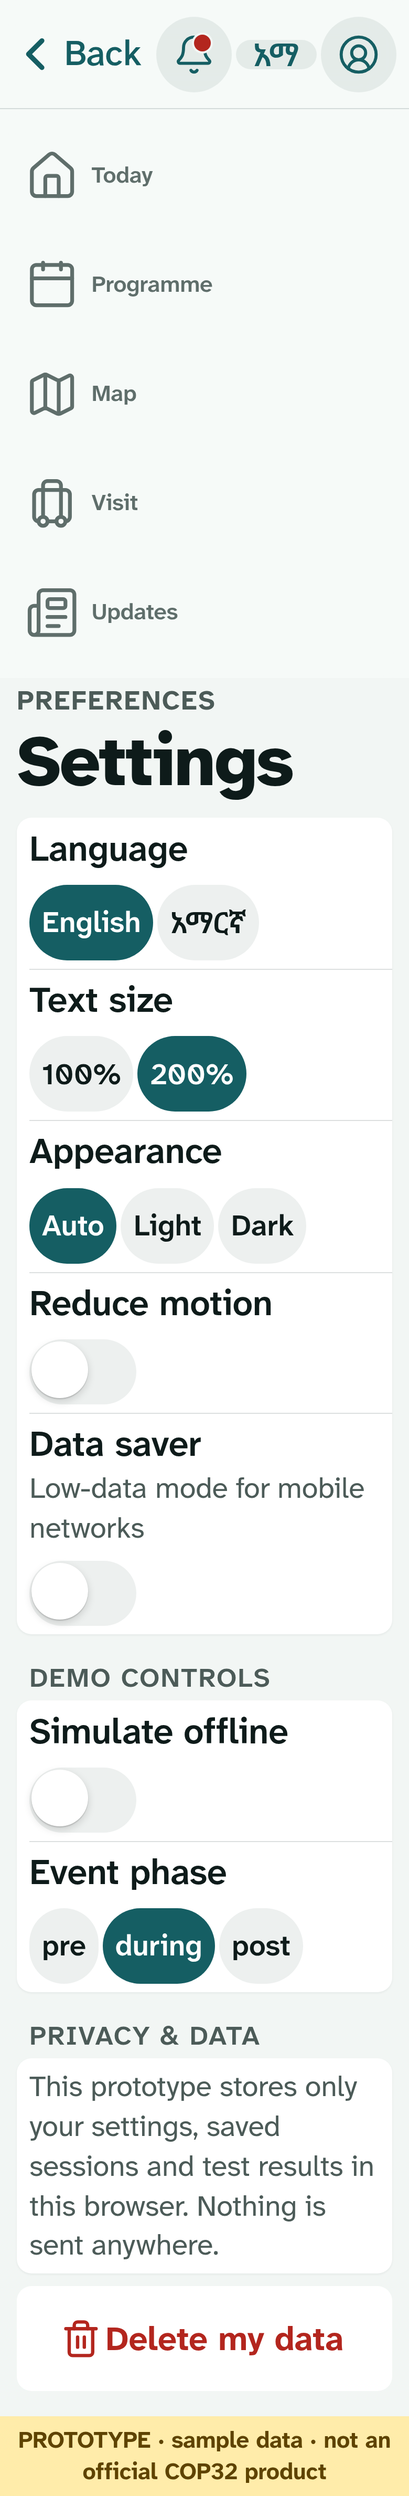
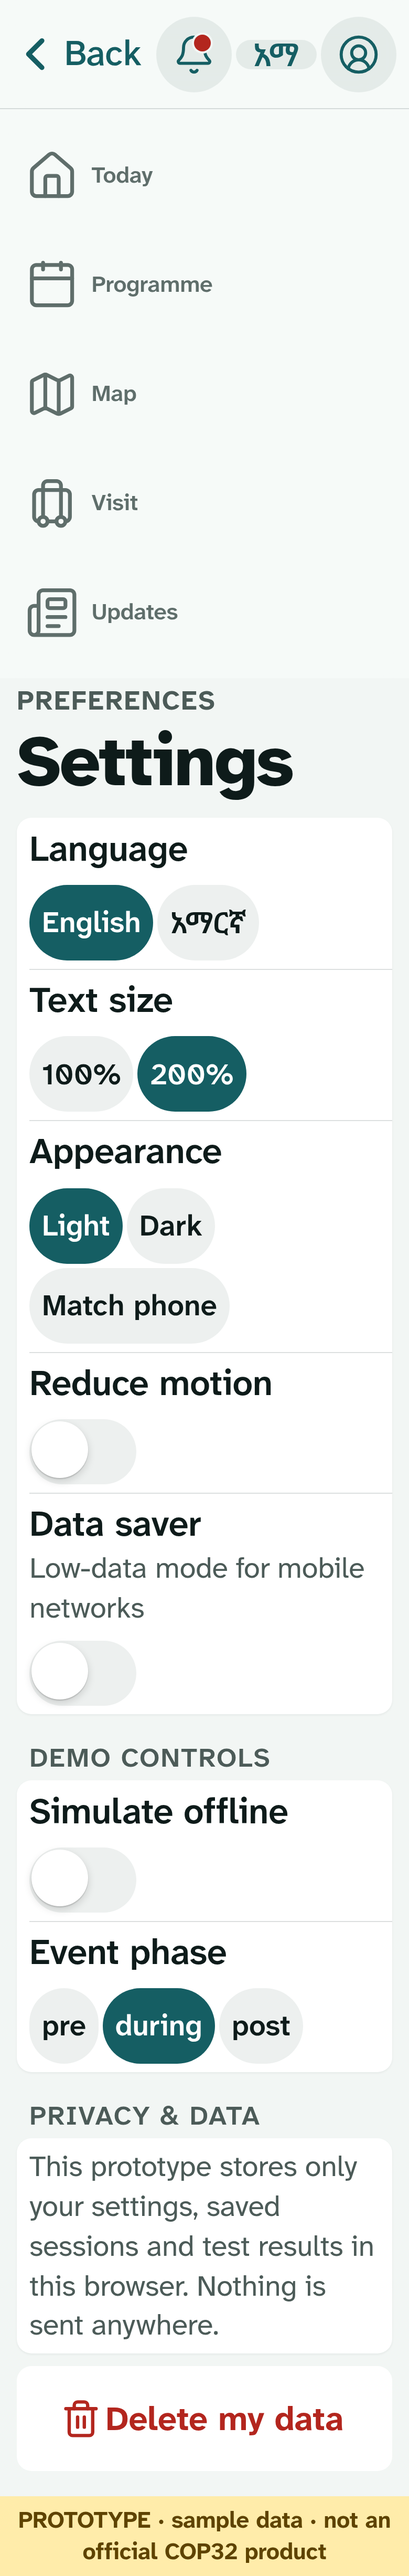
Prototype: default to light mode, add Dark mode switch, fix theme click bug
The root element's data-theme attribute matched the global click handler's
[data-theme] selector, so every click reset the theme and re-rendered,
which also blocked the settings switches. Theme buttons now use
data-set-theme. Light is the default (new 'appearance' key, so old 'auto'
prefs no longer follow the phone's dark mode); Profile & Settings gets a
Dark mode switch; Settings offers Light / Dark / Match phone.

Claude-Session: https://claude.ai/code/session_01HBeDDg6xG2i1W1YkZUsBUK

diff --git a/prototype/app.js b/prototype/app.js
@@ -5,7 +5,7 @@ const D = window.DATA, ICONS = window.ICONS || {}, $ = (s, r = document) => r.qu
 const store = { get(k, d) { try { const v = localStorage.getItem('p_' + k); return v === null ? d : JSON.parse(v); } catch { return d; } },
   set(k, v) { try { localStorage.setItem('p_' + k, JSON.stringify(v)); } catch {} },
   clear() { try { Object.keys(localStorage).filter(k => k.startsWith('p_')).forEach(k => localStorage.removeItem(k)); } catch {} } };
-const S = { lang: store.get('lang', 'en'), theme: store.get('theme', 'auto'), scale: store.get('scale', 1), reduce: store.get('reduce', false), save: store.get('dataSaver', false),
+const S = { lang: store.get('lang', 'en'), theme: store.get('appearance', 'light'), scale: store.get('scale', 1), reduce: store.get('reduce', false), save: store.get('dataSaver', false),
   offline: false, phase: store.get('phase', 'during'), saved: new Set(store.get('saved', [])), task: store.get('task', null), visited: [], firstTab: null, results: store.get('results', []), signed: store.get('signed', false) };
 // ---- i18n: AM strings are MACHINE-DRAFTED & UNVERIFIED; missing ones fall back to visible English (IA rule 5)
 const AM = { Home:'መነሻ', Programme:'ፕሮግራም', Map:'ካርታ', Visit:'ጉብኝት', Updates:'ዜና', Search:'ፈልግ', Settings:'ቅንብሮች', Language:'ቋንቋ', Help:'እገዛ', Today:'ዛሬ',
@@ -36,7 +36,8 @@ function avatar(id, big) { const n = parseInt(String(id).replace(/\D/g, ''), 10)
 // ---- shell
 const app = $('#app');
 function setPrefs() { const r = document.documentElement; r.style.setProperty('--scale', S.scale); r.dataset.reduce = S.reduce; r.classList.toggle('big', S.scale >= 1.5); document.body.dataset.uiLang = S.lang; r.lang = S.lang;
-  if (S.theme === 'auto') r.removeAttribute('data-theme'); else r.dataset.theme = S.theme; }
+  if (S.theme === 'auto') r.removeAttribute('data-theme'); else r.dataset.theme = S.theme;
+  const dark = S.theme === 'dark' || (S.theme === 'auto' && matchMedia('(prefers-color-scheme: dark)').matches), m = document.querySelector('meta[name=theme-color]'); if (m) m.content = dark ? '#000000' : '#F2F6F4'; }
 const route = () => (location.hash.replace(/^#\/?/, '') || 'home');
 const TABS = [['home', 'Home', 'house'], ['programme', 'Programme', 'calendar'], ['map', 'Map', 'map'], ['visit', 'Visit', 'luggage'], ['updates', 'Updates', 'newspaper']];
 const largeTitle = (title, eyebrow = '', extra = '') => `<div class="lt"><div>${eyebrow ? `<div class="eyebrow">${eyebrow}</div>` : ''}<h1 class="title">${title}</h1></div>${extra}</div>`;
@@ -132,7 +133,7 @@ V.menu = p => { const k = p[1];
     ${S.signed ? `<div class="prof"><span class="pav">SA</span><div class="rt"><b>Selam Anbessa</b><small>selam@example.org · sample account</small></div></div>`
       : `<div class="prof"><span class="pav">${svg('user-round')}</span><div class="rt"><b>Guest</b><small>Using the app without an account</small></div></div><button class="btn wide" id="signin" style="margin-top:var(--s-3)">${svg('log-in')}Sign in to sync your agenda</button><p class="gnote">Optional. Everything works without an account; your saved sessions stay on this phone (D21).</p>`}
     <div class="glabel">Account</div><div class="group">${row({ href: '#/programme/agenda', icon: 'bookmark', title: t('My agenda'), val: `${S.saved.size} saved` })}${row({ href: '#/updates/alerts', icon: 'bell-ring', tone: 'c2', title: 'Notifications', val: 'On' })}</div>
-    <div class="glabel">Preferences</div><div class="group">${row({ href: '#/menu/settings', icon: 'languages', title: t('Language'), val: S.lang === 'am' ? '<span lang="am">አማርኛ</span>' : 'English' })}${row({ href: '#/menu/settings', icon: 'sun-moon', tone: 'c4', title: 'Appearance', val: { auto: 'Automatic', light: 'Light', dark: 'Dark' }[S.theme] })}${row({ href: '#/menu/settings', icon: 'type', tone: 'c5', title: 'Text size', val: S.scale > 1 ? '200%' : 'Default' })}${row({ href: '#/menu/settings', icon: 'clock', tone: 'c2', title: 'Time zone', val: 'EAT' })}</div>
+    <div class="glabel">Preferences</div><div class="group">${row({ href: '#/menu/settings', icon: 'languages', title: t('Language'), val: S.lang === 'am' ? '<span lang="am">አማርኛ</span>' : 'English' })}<div class="row"><span class="ri c4">${svg('sun-moon')}</span><label class="rt" for="s-dark"><b>Dark mode</b><small>${S.theme === 'auto' ? 'Matching your phone' : S.theme === 'dark' ? 'On' : 'Off (light)'}</small></label><input type="checkbox" role="switch" class="switch" id="s-dark" ${S.theme === 'dark' ? 'checked' : ''}></div>${row({ href: '#/menu/settings', icon: 'type', tone: 'c5', title: 'Text size', val: S.scale > 1 ? '200%' : 'Default' })}${row({ href: '#/menu/settings', icon: 'clock', tone: 'c2', title: 'Time zone', val: 'EAT' })}</div>
     <div class="glabel">Learn &amp; library</div><div class="group">${row({ href: '#/menu/learn', icon: 'book-open', title: 'Learn', sub: 'COP explained, climate basics, glossary' })}${row({ href: '#/menu/library', icon: 'library', tone: 'c5', title: 'Library', sub: 'Documents and reports' })}${row({ href: '#/menu/archive', icon: 'archive', tone: 'c4', title: 'Archive', sub: 'Past editions' })}</div>
     <div class="glabel">Privacy</div><div class="group">${row({ href: '#/menu/settings', icon: 'shield', title: 'Privacy & data' })}${row({ href: '#/menu/settings', icon: 'trash-2', tone: 'c3', title: '<span style="color:var(--c-danger)">Delete my data</span>' })}</div>
     <div class="glabel">Help</div><div class="group">${row({ href: '#/menu/help', icon: 'circle-help', title: 'Help & FAQ' })}${row({ href: '#/menu/about', icon: 'info', tone: 'c5', title: 'About this prototype', val: 'v0.2' })}</div>
@@ -151,7 +152,7 @@ function settings() { const sw = (id, label, on, sub = '') => `<div class="row n
   return `${largeTitle(t('Settings'), 'Preferences')}
   <div class="group">${opt(t('Language'), `<button data-lang="en" aria-pressed="${S.lang === 'en'}">English</button><button data-lang="am" aria-pressed="${S.lang === 'am'}" lang="am">አማርኛ</button>`)}
   ${opt('Text size', `<button data-scale="1" aria-pressed="${S.scale === 1}">100%</button><button data-scale="2" aria-pressed="${S.scale === 2}">200%</button>`)}
-  ${opt('Appearance', ['auto', 'light', 'dark'].map(x => `<button data-theme="${x}" aria-pressed="${S.theme === x}">${{ auto: 'Auto', light: 'Light', dark: 'Dark' }[x]}</button>`).join(''))}
+  ${opt('Appearance', ['light', 'dark', 'auto'].map(x => `<button data-set-theme="${x}" aria-pressed="${S.theme === x}">${{ auto: 'Match phone', light: 'Light', dark: 'Dark' }[x]}</button>`).join(''))}
   ${sw('s-reduce', 'Reduce motion', S.reduce)}${sw('s-save', 'Data saver', S.save, 'Low-data mode for mobile networks')}</div>
   <div class="glabel">Demo controls</div><div class="group">${sw('s-off', 'Simulate offline', S.offline)}${opt('Event phase', ['pre', 'during', 'post'].map(x => `<button data-phase="${x}" aria-pressed="${S.phase === x}">${x}</button>`).join(''))}</div>
   <div class="glabel">Privacy &amp; data</div><div class="group"><div class="row notile"><span class="rt"><small>This prototype stores only your settings, saved sessions and test results in this browser. Nothing is sent anywhere.</small></span></div></div>
@@ -211,12 +212,12 @@ function onScroll() { app.classList.toggle('scrolled', window.scrollY > 24); }
 window.addEventListener('scroll', onScroll, { passive: true });
 // ---- events
 document.addEventListener('click', e => {
-  const el = e.target.closest('[data-save],[data-lang],[data-scale],[data-theme],[data-phase],[data-linkout],[data-task],[data-tt],[data-toast],[data-back],#lg,#del,#found,#csv,#clr,#signin,#signout'); if (!el) return;
+  const el = e.target.closest('[data-save],[data-lang],[data-scale],[data-set-theme],[data-phase],[data-linkout],[data-task],[data-tt],[data-toast],[data-back],#lg,#del,#found,#csv,#clr,#signin,#signout'); if (!el) return;
   if (el.dataset.back && history.length > 1 && document.referrer !== undefined) { e.preventDefault(); history.back(); return; }
   if (el.dataset.save) { e.preventDefault(); const id = el.dataset.save, on = !S.saved.has(id); on ? S.saved.add(id) : S.saved.delete(id); store.set('saved', [...S.saved]); const y = window.scrollY; render(); window.scrollTo(0, y); onScroll(); toast(on ? 'Added to My agenda' : 'Removed from My agenda'); }
   else if (el.id === 'lg' || el.dataset.lang) { S.lang = el.dataset.lang || (S.lang === 'en' ? 'am' : 'en'); store.set('lang', S.lang); S.visited.push('header/language'); render(); }
   else if (el.dataset.scale) { S.scale = +el.dataset.scale; store.set('scale', S.scale); render(); }
-  else if (el.dataset.theme) { S.theme = el.dataset.theme; store.set('theme', S.theme); render(); }
+  else if (el.dataset.setTheme) { S.theme = el.dataset.setTheme; store.set('appearance', S.theme); render(); }
   else if (el.dataset.phase) { S.phase = el.dataset.phase; store.set('phase', S.phase); render(); }
   else if (el.dataset.toast) { toast(el.dataset.toast); }
   else if (el.dataset.linkout) { e.preventDefault(); dialogBox(`<h2 id="dt">You’re leaving the app</h2><p class="muted">Opening ${esc(el.dataset.linkout)}. We don’t share your data. (Sample interstitial — no real link.)</p><div class="dlg-actions"><button class="btn plain" value="x">Cancel</button><button class="btn" value="c">Continue</button></div>`, () => toast('Sample only: no real link')); }
@@ -224,12 +225,12 @@ document.addEventListener('click', e => {
   else if (el.dataset.tt) { const task = D.tasks.find(x => x[0] === S.task); if (el.dataset.top) { S.firstTab = el.dataset.tt; el.style.fontWeight = 700; return; }
     const ok = (TREE_MAP[el.dataset.tt] || [el.dataset.tt.toLowerCase()]).some(r => task[2].some(c => r === c || c.startsWith(r + '/') || r.startsWith(c + '/') || (r === 'menu/settings' && c === 'header/language'))); finish('tree', `${el.dataset.parent} > ${el.dataset.tt}`, S.firstTab || el.dataset.parent, ok); }
   else if (el.id === 'found') { const task = D.tasks.find(x => x[0] === S.task), last = route().split('?')[0]; finish('app', S.visited.filter(v => v !== 'test').join(' > '), S.firstTab || '', task[2].some(c => last === c || last.startsWith(c) || (c === 'header/language' && S.visited.includes('header/language')) || (c.startsWith('visit/') && last === c) || (c === 'programme' && last.startsWith('programme')) || (c === 'home' && last === 'home') || (c === 'updates' && last.startsWith('updates')) || (c === 'map' && last.startsWith('map')) || (c === 'menu/settings' && last.startsWith('menu/settings')))); }
-  else if (el.id === 'del') { dialogBox(`<h2 id="dt">Delete your data?</h2><p class="muted">This removes your settings, saved sessions and test results from this browser.</p><div class="dlg-actions"><button class="btn plain" value="x">Cancel</button><button class="btn" style="background:var(--c-danger);color:var(--c-onDanger)" value="c">Delete</button></div>`, () => { store.clear(); S.saved = new Set(); S.results = []; S.lang = 'en'; S.theme = 'auto'; S.scale = 1; S.task = null; S.signed = false; render(); toast('Your data was deleted'); }); }
+  else if (el.id === 'del') { dialogBox(`<h2 id="dt">Delete your data?</h2><p class="muted">This removes your settings, saved sessions and test results from this browser.</p><div class="dlg-actions"><button class="btn plain" value="x">Cancel</button><button class="btn" style="background:var(--c-danger);color:var(--c-onDanger)" value="c">Delete</button></div>`, () => { store.clear(); S.saved = new Set(); S.results = []; S.lang = 'en'; S.theme = 'light'; S.scale = 1; S.task = null; S.signed = false; render(); toast('Your data was deleted'); }); }
   else if (el.id === 'signin') { S.signed = true; store.set('signed', true); render(); toast('Signed in (sample account)'); }
   else if (el.id === 'signout') { S.signed = false; store.set('signed', false); render(); toast('Signed out'); }
   else if (el.id === 'csv') { const csv = 'task,mode,first_click,path,success\n' + S.results.map(r => [r.task, r.mode, r.first, r.path, r.ok ? 'Y' : 'N'].map(x => `"${String(x).replace(/"/g, '""')}"`).join(',')).join('\n'); const a = document.createElement('a'); a.href = URL.createObjectURL(new Blob([csv], { type: 'text/csv' })); a.download = 'tree-test-dry-run.csv'; a.click(); }
   else if (el.id === 'clr') { S.results = []; store.set('results', []); render(); } });
-document.addEventListener('change', e => { const i = e.target.id; if (i === 's-reduce') { S.reduce = e.target.checked; store.set('reduce', S.reduce); } else if (i === 's-save') { S.save = e.target.checked; store.set('dataSaver', S.save); } else if (i === 's-off') { S.offline = e.target.checked; toast(S.offline ? 'Offline mode (simulated)' : 'Back online'); } else return; render(); });
+document.addEventListener('change', e => { const i = e.target.id; if (i === 's-reduce') { S.reduce = e.target.checked; store.set('reduce', S.reduce); } else if (i === 's-save') { S.save = e.target.checked; store.set('dataSaver', S.save); } else if (i === 's-dark') { S.theme = e.target.checked ? 'dark' : 'light'; store.set('appearance', S.theme); } else if (i === 's-off') { S.offline = e.target.checked; toast(S.offline ? 'Offline mode (simulated)' : 'Back online'); } else return; render(); });
 document.addEventListener('submit', e => { if (e.target.id === 'sf') { e.preventDefault(); location.hash = '#/search?q=' + encodeURIComponent($('#q').value); } });
 window.addEventListener('hashchange', render); render();
 })();

diff --git a/prototype/index.html b/prototype/index.html
@@ -2,7 +2,7 @@
 <html lang="en"><head><meta charset="utf-8"><meta name="viewport" content="width=device-width,initial-scale=1,viewport-fit=cover">
 <title>COP32 companion — PROTOTYPE (sample data)</title>
 <meta name="description" content="Clickable prototype with sample data. Not an official COP32 product.">
-<meta name="theme-color" content="#F2F6F4" media="(prefers-color-scheme: light)"><meta name="theme-color" content="#000000" media="(prefers-color-scheme: dark)">
+<meta name="theme-color" content="#F2F6F4">
 <link rel="preload" href="assets/AtkinsonHyperlegibleNext-latin.woff2" as="font" type="font/woff2" crossorigin>
 <link rel="preload" href="assets/NotoSansEthiopic-subset.woff2" as="font" type="font/woff2" crossorigin>
 <link rel="icon" href="data:,"><link rel="stylesheet" href="tokens.css"><link rel="stylesheet" href="styles.css"></head>

diff --git a/prototype/README.md b/prototype/README.md
@@ -3,7 +3,7 @@
 > **PROTOTYPE — sample data, not an official COP32 product.** Independent, unofficial concept (D1, D3). All content is synthetic; Amharic text is machine-drafted and **not reviewed by a native speaker**. This is not the production app and does not depend on the mobile-framework decision (S1).
 
 ## Visual design (Track D v2, D53)
-"Highland Mist": misty teal tint, lime for the one primary action, grouped inset lists, large collapsing titles, translucent bars, true dark mode (Apple HIG principles). Fonts: Atkinson Hyperlegible Next (Latin, 34 KB) + Noto Sans Ethiopic (bundled). Icons: Lucide subset (`icons.js`, ISC). Avatars: faceless illustrated SVG. The ☰ menu is now the **profile button** next to the language switch; it opens Profile & Settings (`#/menu`) with Learn, Library, Archive, Help and About. See `docs/design/design-system.md` and `docs/design/redesign-plan.md`.
+"Highland Mist": misty teal tint, lime for the one primary action, grouped inset lists, large collapsing titles, translucent bars, true dark mode (Apple HIG principles). Light mode is the default; turn on Dark mode from the profile button → Preferences, or choose Light / Dark / Match phone in Settings. Fonts: Atkinson Hyperlegible Next (Latin, 34 KB) + Noto Sans Ethiopic (bundled). Icons: Lucide subset (`icons.js`, ISC). Avatars: faceless illustrated SVG. The ☰ menu is now the **profile button** next to the language switch; it opens Profile & Settings (`#/menu`) with Learn, Library, Archive, Help and About. See `docs/design/design-system.md` and `docs/design/redesign-plan.md`.
 
 ## What it shows
 - The approved IA (D16 v2): 5 tabs — Today (Home), Programme, Map, Visit, Updates — plus header actions: alerts, language switch, and the profile button (Profile & Settings with Learn, Library, Archive, Help, About). Search sits on Today and in Programme/Updates.
